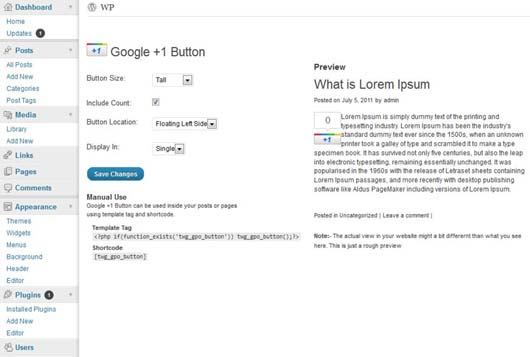
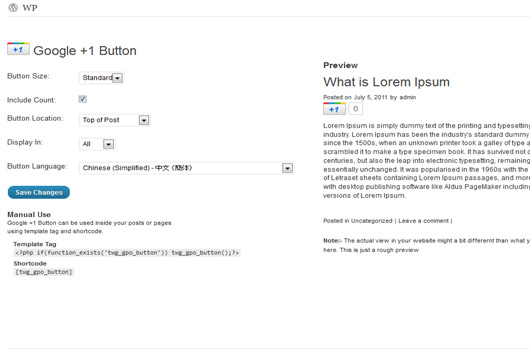
git-svn-id: https://plugins.svn.wordpress.org/googleplusone-button/trunk@406522 b8457f37-d9ea-0310-8a92-e5e31aec5664

diff --git a/css/googleplusone-button-fe.css b/css/googleplusone-button-fe.css
@@ -1,0 +1,29 @@
+@charset "utf-8";
+/**
+ * @package Google Plusone(+1) Button
+ * @version 1.0.1
+ * @author Sagar Bhandari <webgig.sagar@gmail.com>
+ */
+ 
+.gpo_leftcontainer {
+	float:left;
+	top: 0px;
+	left: opx;
+}
+
+.gpo_leftcontainer .gpo_buttons {
+	margin:4px;
+	padding-bottom:2px;
+	float:left;
+	clear:both;
+}
+
+.gpo_bottomcontainer {
+	width:50%;
+	padding-top:1px;
+}
+
+.gpo_bottomcontainer .gpo_buttons {
+	margin:4px;
+	float:left;
+}
